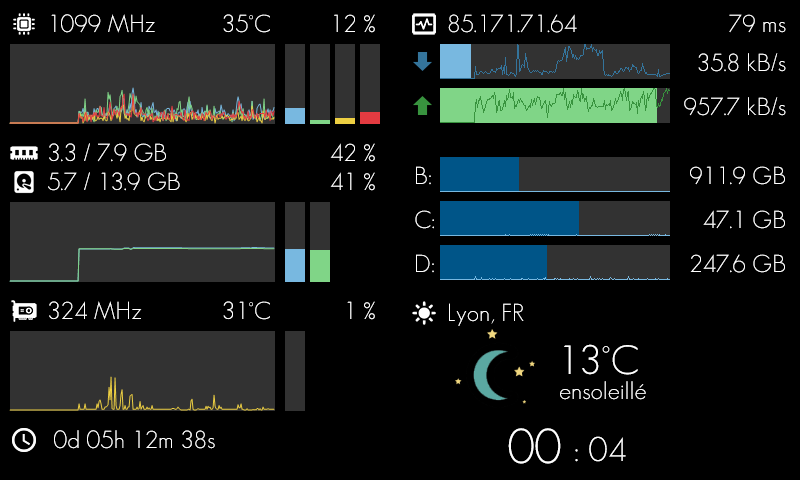
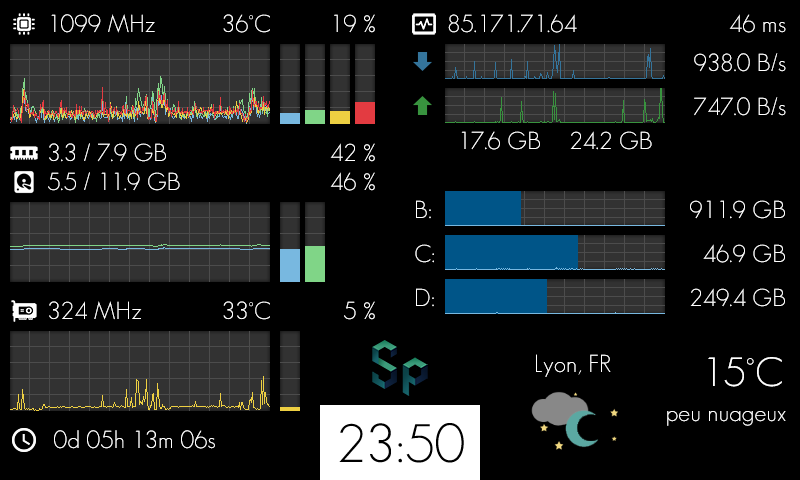
improve clock + weather display, add network cumulative counters

diff --git a/README.md b/README.md
@@ -20,6 +20,7 @@ Special skin to be displayed on a Galaxy S connected with AirDisplay (or any 800
  * Ping
  * Download bandwidth graphic
  * Upload bandwidth graphic
+ * Total downloaded and uploaded
  * 3 drives usage graphic + free space
  * Weather with temperature + icon
  * Clock
